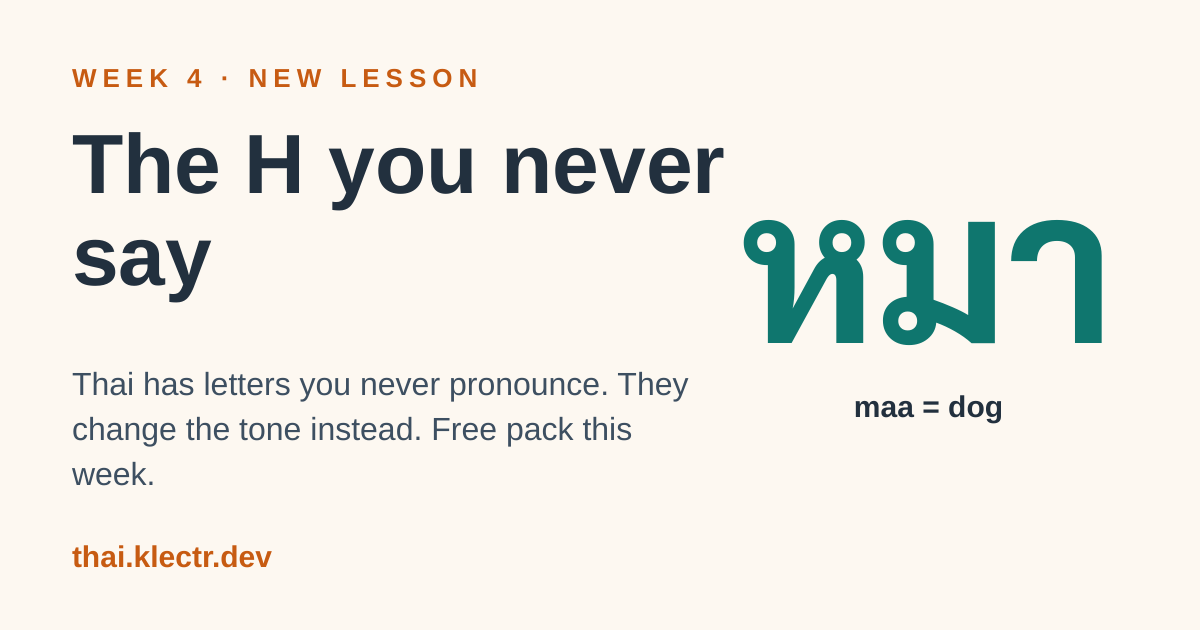
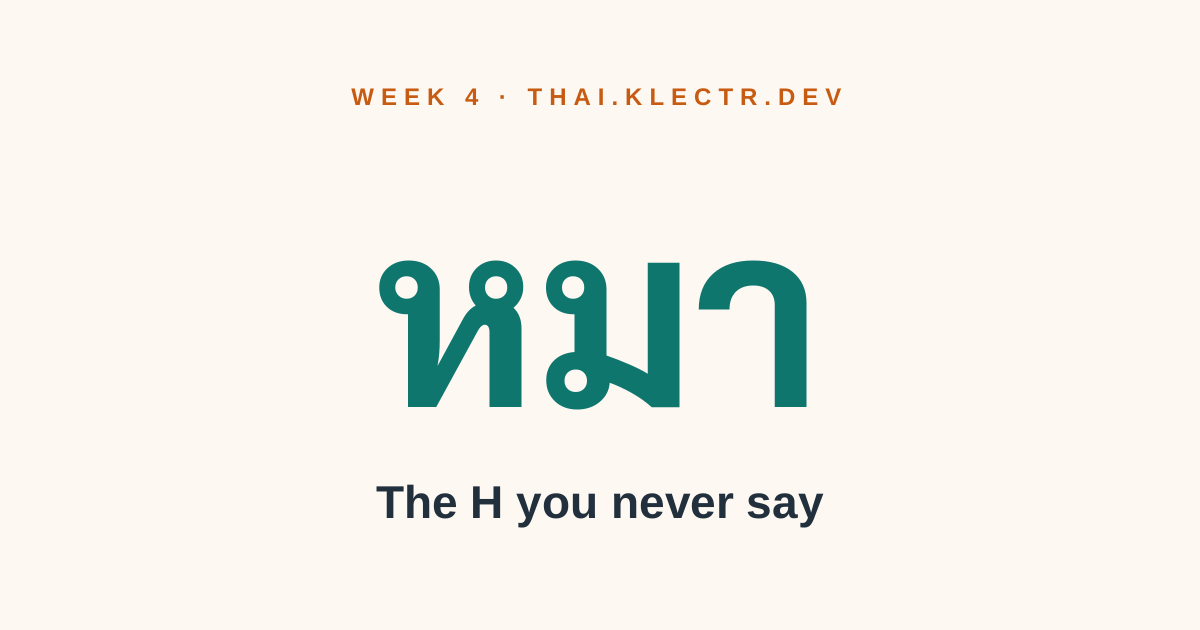
design: minimal share cards, one idea each

diff --git a/social/og/og-home.html b/social/og/og-home.html
@@ -3,28 +3,18 @@
 <head>
 <meta charset="utf-8">
 <style>
-@font-face { font-family: "Sarabun"; src: url("/home/hatch/workspace/thai-fonts/Sarabun-Regular.ttf"); }
 @font-face { font-family: "Sarabun"; src: url("/home/hatch/workspace/thai-fonts/Sarabun-Bold.ttf"); font-weight: bold; }
 @page { size: 1200px 630px; margin: 0; }
 body { margin: 0; width: 1200px; height: 630px; background: #fdf8f1; color: #22303e;
-  font-family: "Avenir Next", "Segoe UI", "Liberation Sans", sans-serif; position: relative; }
-.kicker { position: absolute; top: 64px; left: 72px; color: #c75b12; font-weight: bold; letter-spacing: 6px; font-size: 26px; }
-h1 { position: absolute; top: 108px; left: 72px; font-size: 88px; margin: 0; width: 720px; line-height: 1.08; }
-.sub { position: absolute; top: 316px; left: 72px; font-size: 32px; color: #3d4f61; width: 640px; line-height: 1.4; }
-.url { position: absolute; bottom: 56px; left: 72px; color: #c75b12; font-weight: bold; font-size: 30px; }
-.trio { position: absolute; right: 72px; top: 150px; text-align: center; }
-.trio .word { font-family: "Sarabun"; font-weight: bold; color: #0f766e; font-size: 96px; line-height: 1.25; }
-.trio .cap { font-size: 24px; color: #3d4f61; margin-top: 18px; line-height: 1.45; }
+  font-family: "Avenir Next", "Segoe UI", "Liberation Sans", sans-serif; text-align: center; }
+.top { margin-top: 84px; color: #c75b12; font-weight: bold; letter-spacing: 7px; font-size: 24px; }
+.words { font-family: "Sarabun"; font-weight: bold; color: #0f766e; font-size: 128px; margin-top: 88px; }
+.title { font-size: 46px; font-weight: bold; margin-top: 56px; }
 </style>
 </head>
 <body>
-<div class="kicker">THAI.KLECTR.DEV</div>
-<h1>Learn to read Thai</h1>
-<p class="sub">One short lesson every Sunday, with a free practice pack. Ten minutes each morning.</p>
-<div class="url">Free primer, no email needed</div>
-<div class="trio">
-  <div class="word">ขาว ข่าว ข้าว</div>
-  <div class="cap">white · news · rice<br>One mark changes everything.</div>
-</div>
+<div class="top">THAI.KLECTR.DEV</div>
+<div class="words">ขาว ข่าว ข้าว</div>
+<div class="title">Learn to read Thai</div>
 </body>
 </html>

diff --git a/social/og/og-week4.html b/social/og/og-week4.html
@@ -3,28 +3,18 @@
 <head>
 <meta charset="utf-8">
 <style>
-@font-face { font-family: "Sarabun"; src: url("/home/hatch/workspace/thai-fonts/Sarabun-Regular.ttf"); }
 @font-face { font-family: "Sarabun"; src: url("/home/hatch/workspace/thai-fonts/Sarabun-Bold.ttf"); font-weight: bold; }
 @page { size: 1200px 630px; margin: 0; }
 body { margin: 0; width: 1200px; height: 630px; background: #fdf8f1; color: #22303e;
-  font-family: "Avenir Next", "Segoe UI", "Liberation Sans", sans-serif; position: relative; }
-.kicker { position: absolute; top: 64px; left: 72px; color: #c75b12; font-weight: bold; letter-spacing: 6px; font-size: 26px; }
-h1 { position: absolute; top: 118px; left: 72px; font-size: 84px; margin: 0; width: 660px; line-height: 1.1; }
-.sub { position: absolute; top: 330px; left: 72px; font-size: 32px; color: #3d4f61; width: 620px; line-height: 1.4; }
-.url { position: absolute; bottom: 56px; left: 72px; color: #c75b12; font-weight: bold; font-size: 30px; }
-.big { position: absolute; right: 84px; top: 130px; text-align: center; }
-.big .word { font-family: "Sarabun"; font-weight: bold; color: #0f766e; font-size: 210px; line-height: 1.2; }
-.big .cap { font-size: 30px; color: #22303e; font-weight: bold; margin-top: 8px; }
+  font-family: "Avenir Next", "Segoe UI", "Liberation Sans", sans-serif; text-align: center; }
+.top { margin-top: 84px; color: #c75b12; font-weight: bold; letter-spacing: 7px; font-size: 24px; }
+.word { font-family: "Sarabun"; font-weight: bold; color: #0f766e; font-size: 250px; line-height: 1.25; margin-top: 36px; }
+.title { font-size: 46px; font-weight: bold; margin-top: 18px; }
 </style>
 </head>
 <body>
-<div class="kicker">WEEK 4 · NEW LESSON</div>
-<h1>The H you never say</h1>
-<p class="sub">Thai has letters you never pronounce. They change the tone instead. Free pack this week.</p>
-<div class="url">thai.klectr.dev</div>
-<div class="big">
-  <div class="word">หมา</div>
-  <div class="cap">maa = dog</div>
-</div>
+<div class="top">WEEK 4 · THAI.KLECTR.DEV</div>
+<div class="word">หมา</div>
+<div class="title">The H you never say</div>
 </body>
 </html>
